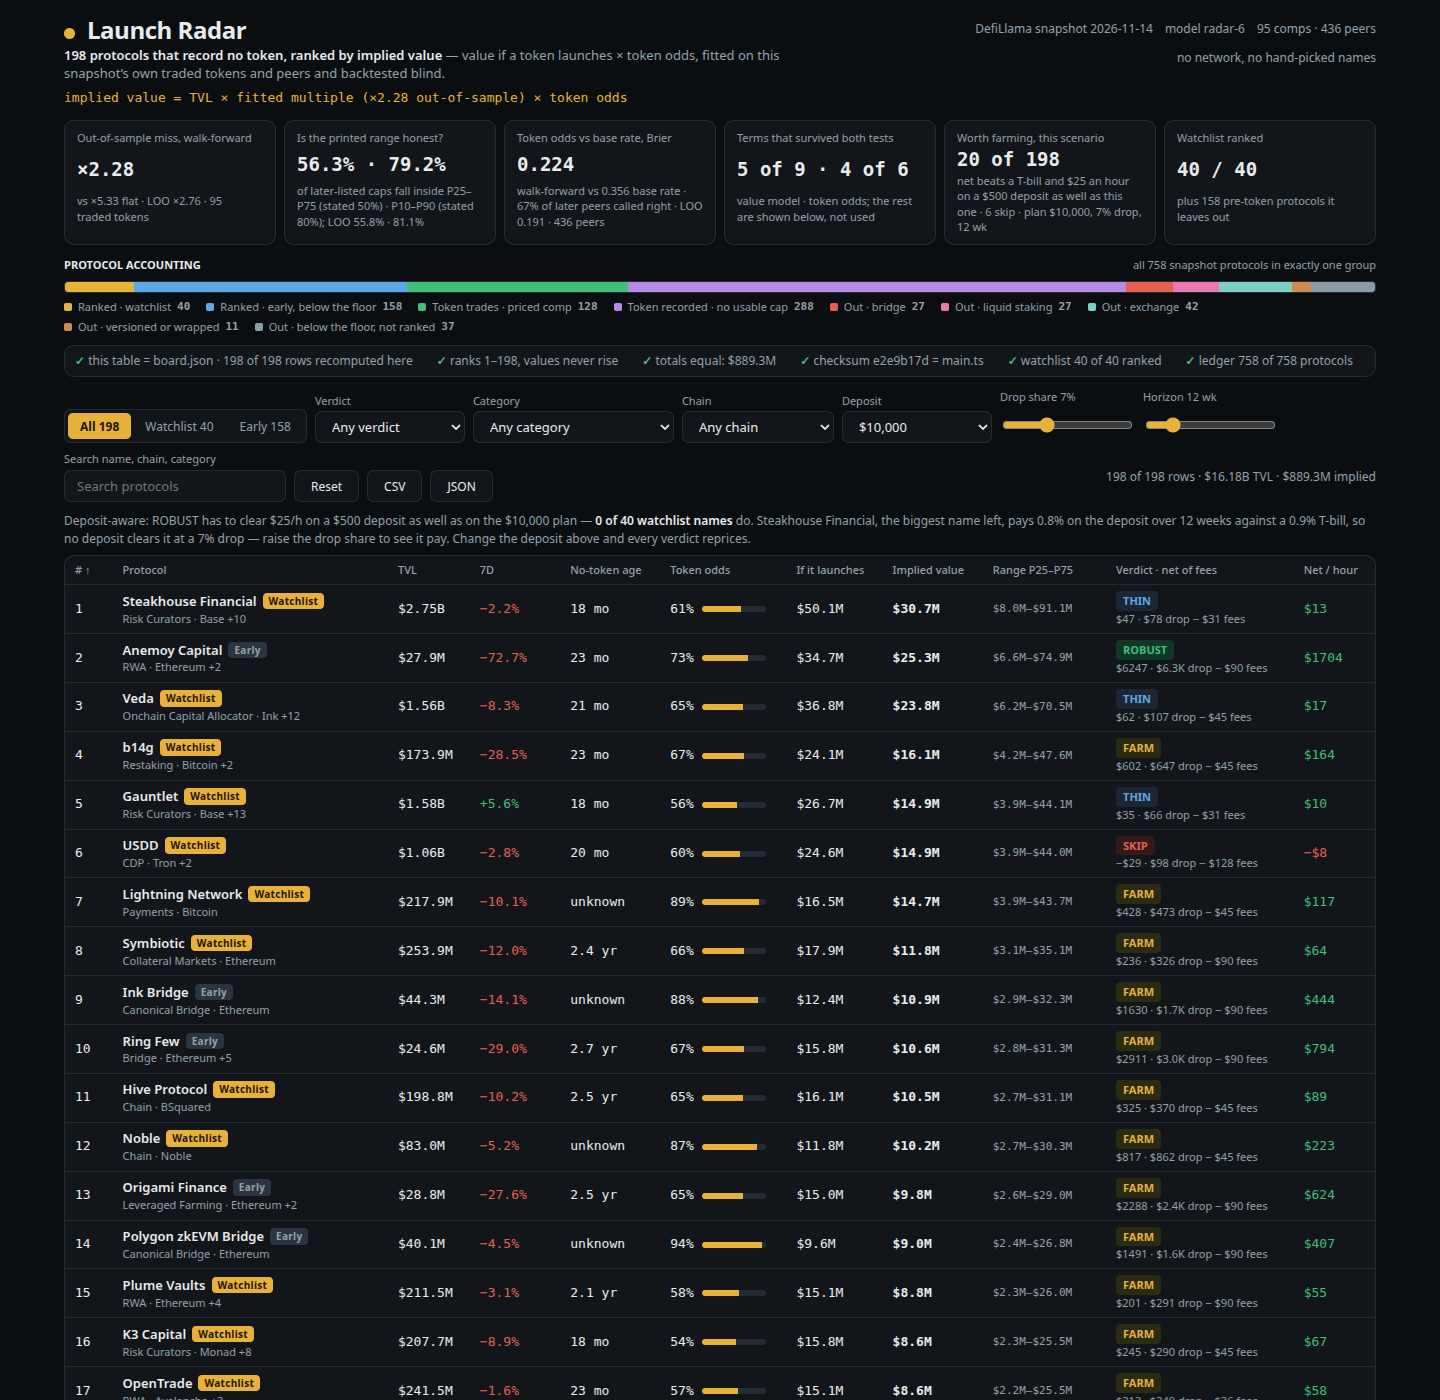
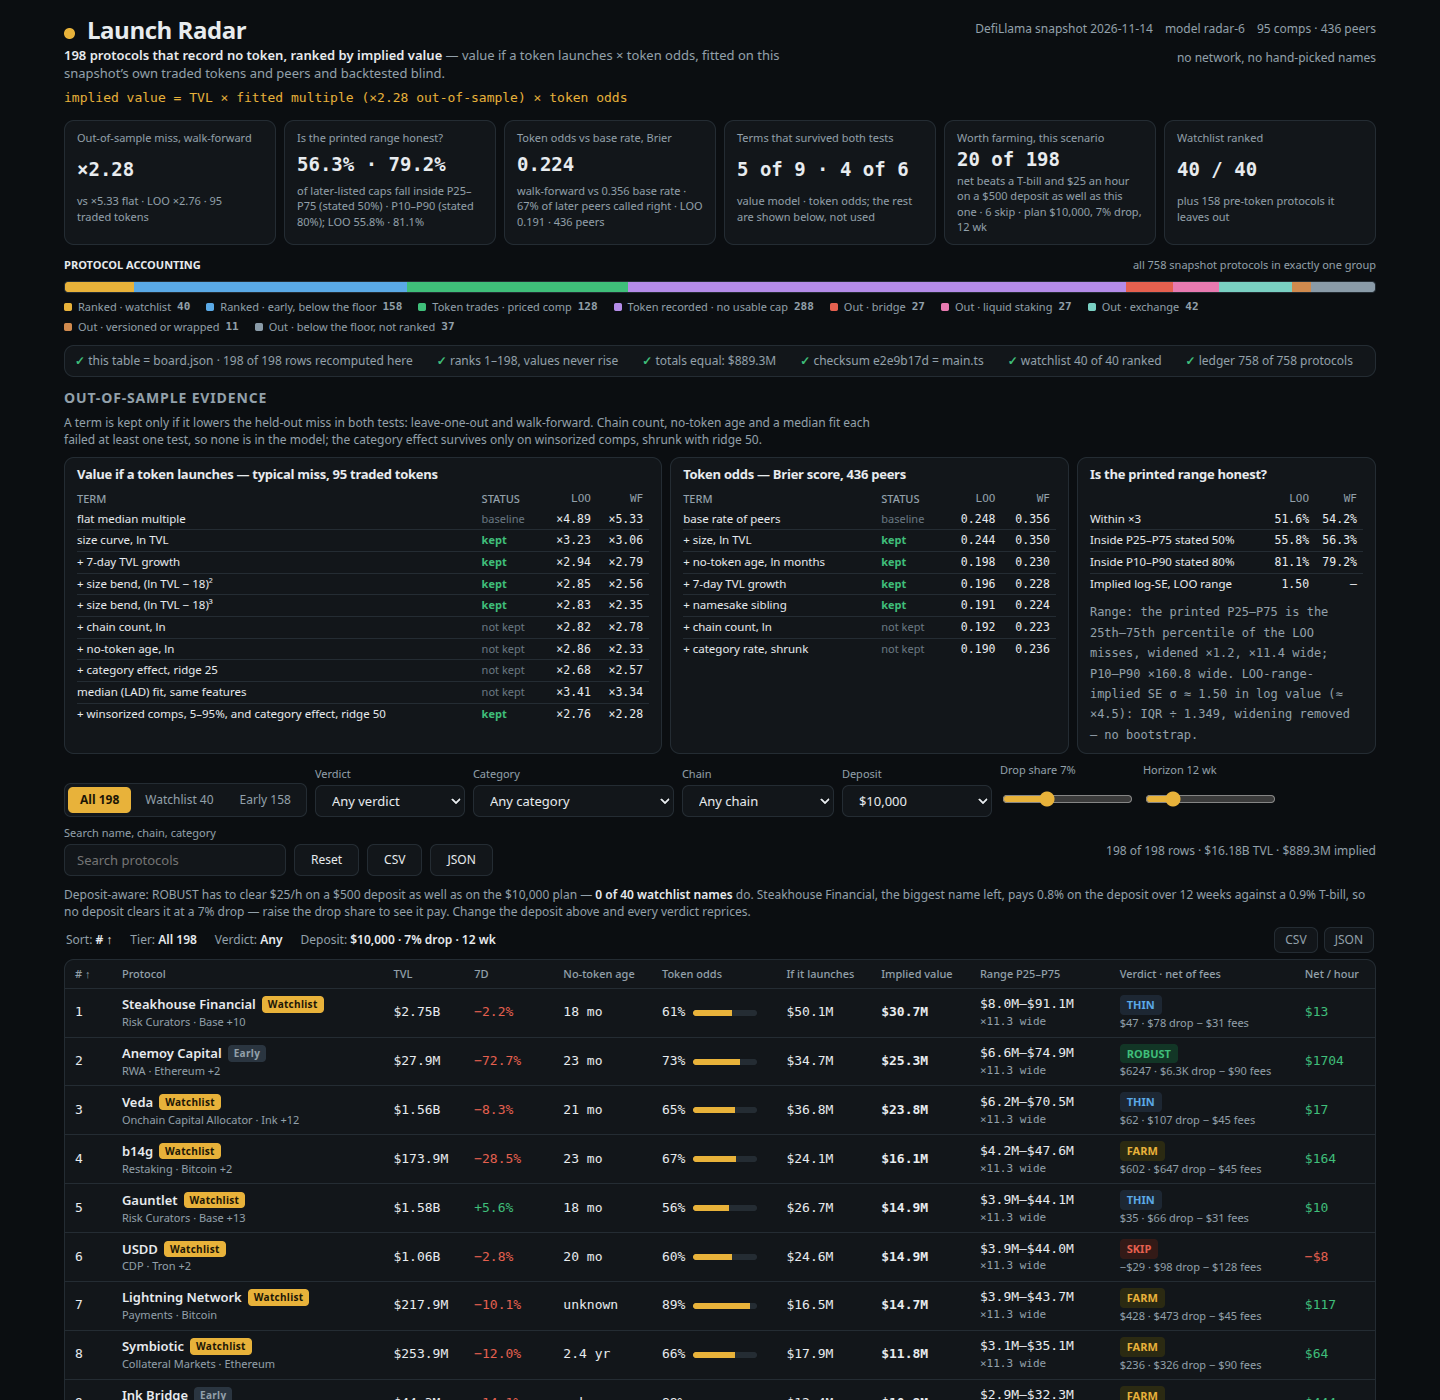
Token Radar v4f: evidence above table, control strip, LOO-range-implied SE
- evidence() moved above controls/table; note shortened to 2 lines,
  long 'How a row is priced' formula moved to footnote (was duplicated there)
- ev tables compacted: STATUS column (kept / not kept / baseline),
  LOO/WF headers; all 10+7 term rows single-line
- new slim control strip above table: sort + tier + verdict + deposit
  + CSV/JSON (wired to the same downloads)
- Range P25-P75 now shows width factor per row (x11.3 wide, from
  range_p75/range_p25); honesty panel gains 'Implied log-SE, LOO range'
  row: sigma 1.50 (IQR/1.349, x1.2 widening removed, no bootstrap)
- board.json byte-identical to v4e (sha256 0e1e4085..., checksum e2e9b17d);
  gate 7/7; two runs byte-identical; screenshots regenerated <512 KiB

Changed region(s): [[0.0312, 0.2764, 0.9688, 1.0], [0.6875, 0.2764, 0.875, 0.3071]]

diff --git a/dashboard/app.js b/dashboard/app.js
@@ -212,11 +212,11 @@ function integrity() {
 }
 
 function evTable(title, rows, unit) {
-  var html = '<div class="ev-panel"><h3>' + esc(title) + '</h3><table><thead><tr><th>TERM</th><th>ADDED IN ORDER</th><th class="num">LEAVE-ONE-OUT</th><th class="num">WALK-FORWARD</th><th></th></tr></thead><tbody>';
+  var html = '<div class="ev-panel"><h3>' + esc(title) + '</h3><table><thead><tr><th>TERM</th><th>STATUS</th><th class="num">LOO</th><th class="num">WF</th></tr></thead><tbody>';
   rows.forEach(function (r) {
     var loo = unit === '×' ? '×' + r.loo.toFixed(2) : r.loo.toFixed(3);
     var wf = unit === '×' ? '×' + r.wf.toFixed(2) : r.wf.toFixed(3);
-    html += '<tr><td>' + esc(r.term) + '</td><td>' + (r.kept ? '<span class="kept">kept</span>' : '<span class="notkept">tested, not kept</span>') + '</td><td class="num">' + loo + '</td><td class="num">' + wf + '</td><td class="num">' + esc(r.note) + '</td></tr>';
+    html += '<tr><td>' + esc(r.term) + '</td><td>' + (r.kept ? '<span class="kept">kept</span>' : '<span class="notkept">' + (r.note === 'baseline' ? 'baseline' : 'not kept') + '</span>') + '</td><td class="num">' + loo + '</td><td class="num">' + wf + '</td></tr>';
   });
   return html + '</tbody></table></div>';
 }
@@ -225,13 +225,21 @@ function curveTerm(coef, label) {
   return ' ' + (coef < 0 ? '− ' : '+ ') + Math.abs(coef).toFixed(4) + ' · ' + label;
 }
 
+function looRangeSe() {
+  var rg = D.range;
+  // Implied log-SE from the width of the LOO distribution: the IQR of the
+  // leave-one-out misses read as a normal sigma (IQR / 1.349), with the
+  // x1.2 print widening removed. No bootstrap, no resampling.
+  return (rg.q75 - rg.q25) / rg.widen / 1.349;
+}
+
 function evidence() {
   var rg = D.range;
   var w2575 = Math.exp(rg.q75 - rg.q25).toFixed(1);
   var w1090 = Math.exp(rg.q90 - rg.q10).toFixed(1);
-  var b = D.value_beta, o = D.odds_beta;
+  var se = looRangeSe();
   var html = '<section class="evidence"><h2>Out-of-sample evidence</h2>'
-    + '<p class="note">A term is kept only if it lowers the held-out miss in both tests: leave-one-out and walk-forward (tokens listed earlier price those listed later). Reading it: the size curve bends — the fitted multiple falls steeply through the middle of the size range, so a straight line overprices the middle. Chain count, no-token age and a median fit were all tested on the same comps and each failed at least one test, so none is in the model. The category effect survives only on winsorized comps, shrunk with ridge 50: winsorizing alone helps walk-forward and hurts leave-one-out, the premium alone does the reverse, and only the pair lowers both.</p>'
+    + '<p class="note">A term is kept only if it lowers the held-out miss in both tests: leave-one-out and walk-forward. Chain count, no-token age and a median fit each failed at least one test, so none is in the model; the category effect survives only on winsorized comps, shrunk with ridge 50.</p>'
     + '<div class="ev-grid">'
     + evTable('Value if a token launches — typical miss, ' + D.value_comps + ' traded tokens', D.value_evidence, '×')
     + evTable('Token odds — Brier score, ' + D.odds_peers + ' peers', D.odds_evidence, '')
@@ -239,12 +247,9 @@ function evidence() {
     + '<tr><td>Within ×3</td><td class="num">' + rg.within3_loo + '%</td><td class="num">' + rg.within3_wf + '%</td></tr>'
     + '<tr><td>Inside P25–P75 stated 50%</td><td class="num">' + rg.p2575_loo + '%</td><td class="num">' + rg.p2575_wf + '%</td></tr>'
     + '<tr><td>Inside P10–P90 stated 80%</td><td class="num">' + rg.p1090_loo + '%</td><td class="num">' + rg.p1090_wf + '%</td></tr>'
-    + '</tbody></table><div class="formula">Range: the printed P25–P75 is the 25th–75th percentile of the leave-one-out misses, widened ×' + rg.widen + ', ×' + w2575 + ' wide; P10–P90 ×' + w1090 + ' wide, as fitted.</div></div>'
+    + '<tr><td>Implied log-SE, LOO range</td><td class="num">' + se.toFixed(2) + '</td><td class="num">—</td></tr>'
+    + '</tbody></table><div class="formula">Range: the printed P25–P75 is the 25th–75th percentile of the LOO misses, widened ×' + rg.widen + ', ×' + w2575 + ' wide; P10–P90 ×' + w1090 + ' wide. LOO-range-implied SE σ ≈ ' + se.toFixed(2) + ' in log value (≈ ×' + Math.exp(se).toFixed(1) + '): IQR ÷ 1.349, widening removed — no bootstrap.</div></div>'
     + '</div>'
-    + '<div class="formula" style="margin-top:12px"><b>How a row is priced — impliedValue() + backtest()</b><br>'
-    + 'impliedValue() = exp(' + b[0].toFixed(4) + curveTerm(b[1], 'ln TVL') + curveTerm(b[2], 'growth') + curveTerm(b[3], '(ln TVL − 18)²') + curveTerm(b[4], '(ln TVL − 18)³') + ') × categoryEffect() × tokenOdds()<br>'
-    + 'tokenOdds() = sigmoid(' + o[0].toFixed(2) + ' + ' + o[1].toFixed(2) + ' · size + ' + o[2].toFixed(2) + ' · ln months + ' + o[3].toFixed(2) + ' · age unknown ' + (o[4] < 0 ? '− ' : '+ ') + Math.abs(o[4]).toFixed(2) + ' · growth + ' + o[5].toFixed(2) + ' · sibling)<br>'
-    + 'R² ' + D.value_r2.toFixed(3) + ' on ' + D.value_comps + ' comps · category effects ×' + D.value_cat_min + ' to ×' + D.value_cat_max + ' (shrunk, ridge 50; comps winsorized 5–95%) · base token rate ' + (D.odds_base_rate * 100) + '% of ' + D.odds_peers + ' peers · model ' + esc(D.model_version) + ', refitted in this browser from the same data.</div>'
     + '</section>';
   return html;
 }
@@ -317,6 +322,20 @@ function controls() {
   return html;
 }
 
+var SORT_LABELS = { rank: '#', tvl: 'TVL', change_7d: '7D', age_days: 'No-token age', token_odds: 'Token odds', if_launches: 'If it launches', implied: 'Implied value', net: 'Verdict · net', per_hour: 'Net / hour' };
+
+function controlStrip() {
+  var sc = scenario();
+  var tierLabel = state.tier === 'watchlist' ? 'Watchlist ' + D.watchlist_size : state.tier === 'early' ? 'Early ' + D.early_size : 'All ' + D.board_size;
+  var verdictLabel = state.verdict === 'all' ? 'Any' : state.verdict;
+  var sortLabel = (SORT_LABELS[state.sortKey] || 'Implied value') + (state.sortDir === 'asc' ? ' ↑' : ' ↓');
+  return '<div class="strip"><span>Sort: <b>' + esc(sortLabel) + '</b></span>'
+    + '<span>Tier: <b>' + esc(tierLabel) + '</b></span>'
+    + '<span>Verdict: <b>' + esc(verdictLabel) + '</b></span>'
+    + '<span>Deposit: <b>$' + sc.deposit_usd.toLocaleString() + ' · ' + (Math.round(sc.drop_share * 1000) / 10) + '% drop · ' + sc.horizon_weeks + ' wk</b></span>'
+    + '<span class="strip-right"><button type="button" class="button" id="f-csv2">CSV</button><button type="button" class="button" id="f-json2">JSON</button></span></div>';
+}
+
 function sortHead(label, key) {
   var arrow = '';
   if (state.sortKey === key) arrow = state.sortDir === 'asc' ? ' ↑' : ' ↓';
@@ -327,9 +346,9 @@ function table() {
   var sc = scenario();
   var rows = filteredRows();
   if (rows.length === 0) {
-    return '<div class="panel"><div class="empty"><h3>No rows match</h3><p>Loosen a filter or clear the search.</p><button type="button" class="button" id="f-reset2">Reset filters</button></div></div>';
+    return controlStrip() + '<div class="panel"><div class="empty"><h3>No rows match</h3><p>Loosen a filter or clear the search.</p><button type="button" class="button" id="f-reset2">Reset filters</button></div></div>';
   }
-  var html = '<div class="panel"><div class="table-wrap"><table class="board"><thead><tr>'
+  var html = controlStrip() + '<div class="panel"><div class="table-wrap"><table class="board"><thead><tr>'
     + sortHead('#', 'rank') + '<th>Protocol</th>' + sortHead('TVL', 'tvl') + sortHead('7D', 'change_7d')
     + sortHead('No-token age', 'age_days') + sortHead('Token odds', 'token_odds') + sortHead('If it launches', 'if_launches')
     + sortHead('Implied value', 'implied') + '<th>Range P25–P75</th>' + sortHead('Verdict · net of fees', 'net') + sortHead('Net / hour', 'per_hour')
@@ -347,7 +366,7 @@ function table() {
       + '<td class="num">' + Math.round(r.token_odds * 100) + '% <span class="oddsbar"><i style="width:' + (r.token_odds * 100) + '%"></i></span></td>'
       + '<td class="num">' + money(r.if_launches_usd) + '</td>'
       + '<td class="num"><b>' + money(r.implied_value_usd) + '</b></td>'
-      + '<td class="num range">' + money(r.range_p25_usd) + '–' + money(r.range_p75_usd) + '</td>'
+      + '<td class="num">' + money(r.range_p25_usd) + '–' + money(r.range_p75_usd) + '<div class="range">×' + (r.range_p75_usd / r.range_p25_usd).toFixed(1) + ' wide</div></td>'
       + '<td><span class="verdict ' + e.verdict + '">' + e.verdict + '</span><div class="range">' + money2(e.net) + ' · ' + money(e.drop) + ' drop − ' + money(e.fees) + ' fees</div></td>'
       + '<td class="num"><span class="' + (e.perHour >= 0 ? 'pos' : 'neg') + '">' + money2(e.perHour) + '</span></td>'
       + '</tr>';
@@ -360,10 +379,14 @@ function table() {
 
 function footnote() {
   var sc = scenario();
+  var b = D.value_beta, o = D.odds_beta;
   var html = '<section class="panel footnote"><h2>How a row is priced</h2>'
     + '<div class="formula">impliedValue() takes a protocol’s TVL, its 7-day change and its listing date from the snapshot, fits the curve on the ' + D.value_comps + ' traded tokens, and multiplies the if-it-launches value by the token odds fitted on the ' + D.odds_peers + ' peers. The board separates protocols whose token already trades — the live list below, shown at the market’s own value — from those still to come. A protocol is said to record no token, never to have none: its DefiLlama record may simply not carry one.</div>'
     + '<div class="formula">The farm plan prices a $' + sc.deposit_usd.toLocaleString() + ' deposit over ' + sc.horizon_weeks + ' weeks at a ' + (Math.round(sc.drop_share * 1000) / 10) + '% drop share: the drop is shared pro-rata with the tenth of TVL that is points-eligible deposits; fees are a 0.3% swap plus one gas payment per transaction at the chain’s rate; the T-bill alternative pays 4% a year. ROBUST beats the T-bill at $25 an hour on a $500 deposit as well as on the plan’s deposit; FARM beats it at $10; THIN clears its fees; MARGINAL loses under $25; SKIP loses more. Change the deposit, drop share or horizon above and every verdict reprices — the $500 plan stays one click away in the deposit selector.</div>'
     + '<div class="formula">Snapshot: DefiLlama, ' + esc(D.as_of) + ' · floor $50M · ' + D.board_size + ' rows · ' + esc(D.source) + ' · no network: this page reads only data.js, written beside it by the same program that wrote board.json.</div>'
+    + '<div class="formula">impliedValue() = exp(' + b[0].toFixed(4) + curveTerm(b[1], 'ln TVL') + curveTerm(b[2], 'growth') + curveTerm(b[3], '(ln TVL − 18)²') + curveTerm(b[4], '(ln TVL − 18)³') + ') × categoryEffect() × tokenOdds()<br>'
+    + 'tokenOdds() = sigmoid(' + o[0].toFixed(2) + ' + ' + o[1].toFixed(2) + ' · size + ' + o[2].toFixed(2) + ' · ln months + ' + o[3].toFixed(2) + ' · age unknown ' + (o[4] < 0 ? '− ' : '+ ') + Math.abs(o[4]).toFixed(2) + ' · growth + ' + o[5].toFixed(2) + ' · sibling)<br>'
+    + 'R² ' + D.value_r2.toFixed(3) + ' on ' + D.value_comps + ' comps · category effects ×' + D.value_cat_min + ' to ×' + D.value_cat_max + ' (shrunk, ridge 50; comps winsorized 5–95%) · base token rate ' + (D.odds_base_rate * 100) + '% of ' + D.odds_peers + ' peers · model ' + esc(D.model_version) + ', refitted in this browser from the same data.</div>'
     + '</section>'
     + '<section class="panel live"><h2 style="padding:14px 14px 0">Live token view — already trading, at the market’s own value</h2><table><thead><tr><th>Protocol</th><th>Category</th><th>TVL</th><th>Market cap</th><th>7D</th></tr></thead><tbody>';
   D.live.forEach(function (r) {
@@ -476,6 +499,10 @@ function bindTable() {
   });
   var reset2 = document.getElementById('f-reset2');
   if (reset2) reset2.addEventListener('click', resetAll);
+  var csv2 = document.getElementById('f-csv2');
+  if (csv2) csv2.addEventListener('click', downloadCsv);
+  var json2 = document.getElementById('f-json2');
+  if (json2) json2.addEventListener('click', downloadJson);
 }
 
 function bindControls() {
@@ -561,10 +588,10 @@ function renderAll() {
     + '<p class="lede"><b>' + D.board_size + ' protocols that record no token, ranked by implied value</b> — value if a token launches × token odds, fitted on this snapshot’s own traded tokens and peers and backtested blind.</p>'
     + '<div class="formula-line">implied value = TVL × fitted multiple (×' + D.kpi.miss_wf.toFixed(2) + ' out-of-sample) × token odds</div></div>'
     + '<div class="top-meta"><span>DefiLlama snapshot ' + esc(D.as_of) + '</span><span>model ' + esc(D.model_version) + '</span><span>' + D.value_comps + ' comps · ' + D.odds_peers + ' peers</span><span>no network, no hand-picked names</span></div></header>'
-    + kpiCards() + accounting() + integrity()
+    + kpiCards() + accounting() + integrity() + evidence()
     + '<div id="controls-slot">' + controls() + '</div>'
     + '<div id="table-slot">' + table() + '</div>'
-    + evidence() + footnote()
+    + footnote()
     + '</div>'
     + '<div class="scrim" id="scrim" hidden></div>'
     + '<aside class="detail" id="detail" hidden aria-label="Protocol detail"></aside>';

diff --git a/dashboard/app.css b/dashboard/app.css
@@ -88,14 +88,14 @@ a { color: var(--accent); }
 }
 .integrity span { white-space: nowrap; }
 .integrity .ok { color: var(--green); font-weight: 700; }
-.evidence { margin-top: var(--s5); }
+.evidence { margin-top: var(--s3); }
 .evidence h2 { margin-bottom: var(--s2); }
-.evidence p.note { color: var(--muted); font-size: 12px; margin-bottom: var(--s3); max-width: 120ch; }
-.ev-grid { display: grid; grid-template-columns: 1.25fr 1fr 0.9fr; gap: var(--s2); }
-.ev-panel { background: var(--surface); border: 1px solid var(--border); border-radius: var(--radius-panel); padding: 10px 14px; }
-.ev-panel h3 { margin-bottom: var(--s2); }
-.ev-panel table { width: 100%; border-collapse: collapse; font-size: 12px; }
-.ev-panel th, .ev-panel td { padding: 3px 6px 3px 0; border-bottom: 1px solid var(--border); text-align: left; vertical-align: top; }
+.evidence p.note { color: var(--muted); font-size: 12px; margin-bottom: 8px; max-width: 120ch; }
+.ev-grid { display: grid; grid-template-columns: 1.5fr 1fr 0.75fr; gap: var(--s2); }
+.ev-panel { background: var(--surface); border: 1px solid var(--border); border-radius: var(--radius-panel); padding: 8px 12px; }
+.ev-panel h3 { margin-bottom: 6px; }
+.ev-panel table { width: 100%; border-collapse: collapse; font-size: 11.5px; }
+.ev-panel th, .ev-panel td { padding: 2px 6px 2px 0; border-bottom: 1px solid var(--border); text-align: left; vertical-align: top; }
 .ev-panel tr:last-child th, .ev-panel tr:last-child td { border-bottom: none; }
 .ev-panel th { color: var(--muted); font-weight: 500; font-size: 11px; }
 .ev-panel td.num, .ev-panel th.num { text-align: right; }
@@ -103,7 +103,7 @@ a { color: var(--accent); }
 .notkept { color: var(--faint); font-size: 11px; }
 .formula { font-family: var(--font-num); font-size: 12px; line-height: 1.7; color: var(--muted); overflow-wrap: anywhere; margin-top: var(--s2); }
 .formula b { color: var(--ink); font-weight: 600; }
-.controls { display: flex; flex-wrap: wrap; align-items: flex-end; gap: var(--s2); padding: var(--s3) 0 var(--s2); }
+.controls { display: flex; flex-wrap: wrap; align-items: flex-end; gap: var(--s2); padding: 8px 0 4px; }
 .field { display: grid; gap: 3px; }
 .field label { color: var(--muted); font-size: 11px; }
 .controls input, .controls select {
@@ -121,6 +121,10 @@ a { color: var(--accent); }
 .button:hover { border-color: var(--muted); }
 .dep-note { flex-basis: 100%; color: var(--muted); font-size: 12px; margin-top: 2px; }
 .dep-note b { color: var(--ink); font-weight: 600; }
+.strip { display: flex; flex-wrap: wrap; align-items: center; gap: 4px 18px; padding: 2px 2px 6px; color: var(--muted); font-size: 12px; }
+.strip b { color: var(--ink); font-weight: 600; }
+.strip-right { margin-left: auto; display: flex; gap: 6px; }
+.strip .button { min-height: 26px; padding: 0 10px; }
 .verdict-legend { padding: 10px 14px; border-top: 1px solid var(--border); color: var(--muted); font-size: 12px; line-height: 1.6; }
 .verdict-legend b { color: var(--ink); font-weight: 600; }
 .panel { background: var(--surface); border: 1px solid var(--border); border-radius: var(--radius-panel); overflow: hidden; }
